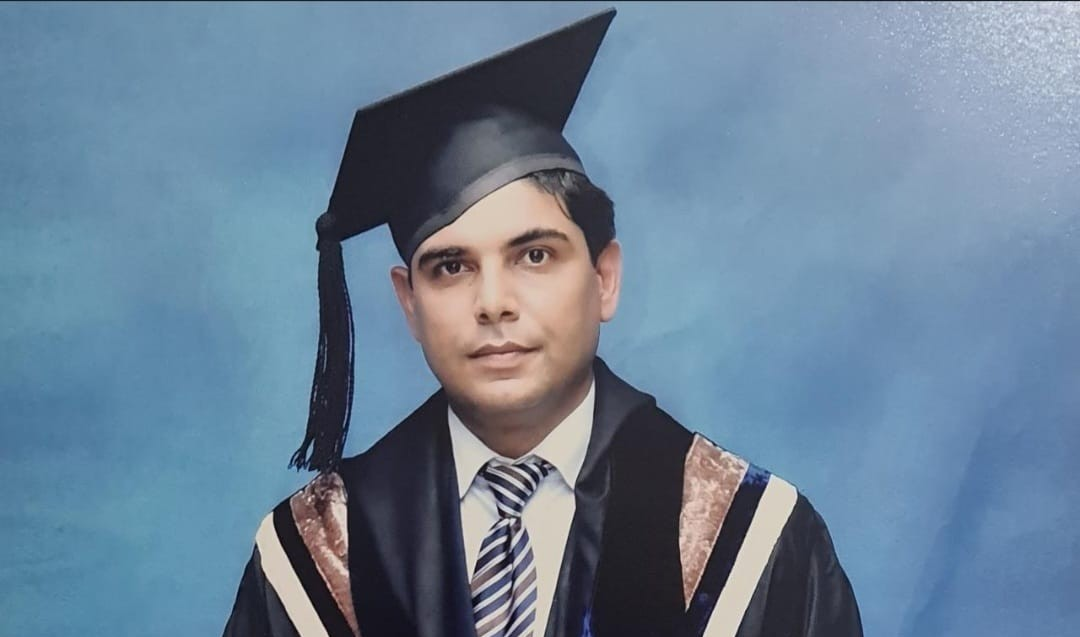
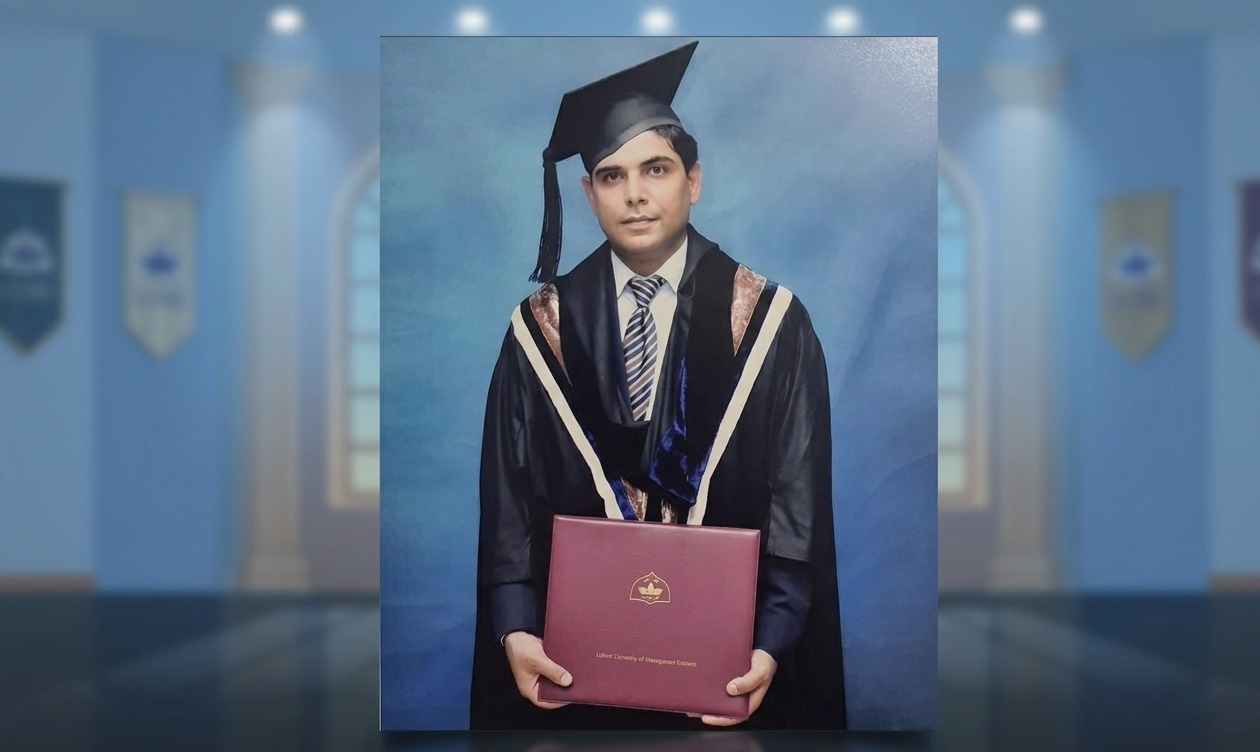
EDUCATION ADDED

diff --git a/index.html b/index.html
@@ -732,6 +732,14 @@
             box-shadow: 0 12px 28px rgba(15, 23, 42, 0.04);
         }
 
+        .education-top {
+            display: flex;
+            justify-content: space-between;
+            gap: 20px;
+            align-items: flex-start;
+            margin-bottom: 14px;
+        }
+
         .education-card h4 {
             margin-bottom: 12px;
             color: var(--indigo);
@@ -757,13 +765,19 @@
         }
 
         .edu-caption {
-            font-size: 0.9rem;
-            color: var(--text-muted);
+            font-size: 0.96rem;
+            color: #d97706;
+            font-weight: 700;
+            letter-spacing: 0.3px;
+            margin-bottom: 6px;
         }
 
         .edu-year {
-            font-weight: 700;
+            font-family: Inter, sans-serif;
             color: var(--indigo);
+            font-size: 0.95rem;
+            font-weight: 700;
+            white-space: nowrap;
             margin-bottom: 8px;
         }
 
@@ -972,7 +986,7 @@
                         <p class="lead">Committed to advancing Airport Operations through innovation, efficiency, and continuous improvement, while fostering a culture of safety, service excellence, and sustainable growth.</p>
                     </div>
                     <div class="intro-actions">
-                        <button id="showMoreBtn" class="btn btn-primary">Detail Profile</button>
+                        <button id="showMoreBtn" class="btn btn-primary">Click to view Detailed Profile</button>
                         <div class="quote-box">
                             <p>What you leave behind is not what is engraved in stone monuments, but what is woven into the lives of others.</p>
                         </div>
@@ -983,31 +997,56 @@
                         </div>
                         <div class="education-list">
                             <div class="education-card">
-                                <h4>1. Lahore University of Management Sciences</h4>
-                                <div class="edu-detail edu-caption">Master of Business Administration (MBA), Operations management</div>
-                                <div class="edu-year">2010 - 2012</div>
+                            <div class="education-top">
+                                <div>
+                                    <h4>1. Master of Business Administration (MBA)</h4>
+                                    <div class="edu-detail edu-caption"> Lahore University of Management Sciences (LUMS)</div>
+                                </div>
+                                <div class="training-date edu-year">2010 - 2012</div>
+                            </div>
+                            <div class="edu-images">
+                                <div class="gallery-card"><img src="lumsconvo1.jpg?v=20260613" alt="LUMS 1" loading="lazy" decoding="async"></div>
+                                <div class="gallery-card"><img src="lumsconvo2.jpg" alt="LUMS 2" loading="lazy" decoding="async"></div>
+                               
+                            </div>
+                        </div>
+
+                            <div class="education-card">
+                                <div class="education-top">
+                                    <div>
+                                        <h4>2. Master of Science (M.Sc.), Physics</h4>
+                                        <div class="edu-detail edu-caption">Govt College (GC), University Lahore</div>
+                                    </div>
+                                    <div class="training-date edu-year">1992 - 1994</div>
+                                </div>
                                 <div class="edu-images">
-                                    <div class="gallery-card"><img src="lumsconvo1.jpg" alt="LUMS 1" loading="lazy" decoding="async"></div>
-                                    <div class="gallery-card"><img src="lumsconvo2.jpg" alt="LUMS 2" loading="lazy" decoding="async"></div>
+                                    <div class="gallery-card"><img src="gcconvo1.jpg" alt="GC 1" loading="lazy" decoding="async"></div>
                                    
                                 </div>
                             </div>
-
+                            
                             <div class="education-card">
-                                <h4>2. Lee Kuan Yew School of Public Policy</h4>
-                                <div class="edu-detail edu-caption">Public Policy program - Public Policy</div>
-                                <div class="edu-year">2017 - 2018</div>
+                                <div class="education-top">
+                                    <div>
+                                        <h4>3. Aviation Policy</h4>
+                                        <div class="edu-detail edu-caption">South Korea</div>
+                                    </div>
+                                    <div class="training-date edu-year">2014</div>
+                                </div>
                                 <div class="edu-images">
-                                    <div class="gallery-card"><img src="(LKYSPP).png" alt="LKYSPP 1" loading="lazy" decoding="async"></div>
-                                    <div class="gallery-card"><img src="(LKYSPP)1.jpg" alt="LKYSPP 2" loading="lazy" decoding="async"></div>
+                                    <div class="gallery-card"><img src="AviationPolicySouthKorea.jpg" alt="South Korea 1" loading="lazy" decoding="async"></div>
                                     
                                 </div>
                             </div>
-
+                            
                             <div class="education-card">
-                                <h4>3. Singapore</h4>
-                                <div class="edu-detail edu-caption">Civil Aviation Management, Airports and Airlines management</div>
-                                <div class="edu-year">2015</div>
+                                <div class="education-top">
+                                    <div>
+                                        <h4>4.Civil Aviation Management Program</h4>
+                                        <div class="edu-detail edu-caption">Singapore</div>
+                                    </div>
+                                    <div class="training-date edu-year">2015</div>
+                                </div>
                                 <div class="edu-images">
                                     <div class="gallery-card"><img src="CivilAviationManagementProgramSingapore.jpg" alt="Singapore 1" loading="lazy" decoding="async"></div>
                                     <div class="gallery-card"><img src="SingaporeCivilAviationManagement.jpg" alt="Singapore 2" loading="lazy" decoding="async"></div>
@@ -1015,26 +1054,20 @@
                             </div>
 
                             <div class="education-card">
-                                <h4>4. South Korea</h4>
-                                <div class="edu-detail edu-caption">Aviation Policy for Executives</div>
-                                <div class="edu-year">2014</div>
+                                <div class="education-top">
+                                    <div>
+                                        <h4>4. Public Policy Program</h4>
+                                        <div class="edu-detail edu-caption">Lee Kuan Yew School of Public Policy (LKYSPP), National University of Singapore</div>
+                                    </div>
+                                    <div class="training-date edu-year">2017 - 2018</div>
+                                </div>
                                 <div class="edu-images">
-                                    <div class="gallery-card"><img src="AviationPolicySouthKorea.jpg" alt="South Korea 1" loading="lazy" decoding="async"></div>
+                                    <div class="gallery-card"><img src="(LKYSPP).png" alt="LKYSPP 1" loading="lazy" decoding="async"></div>
+                                    <div class="gallery-card"><img src="(LKYSPP)1.jpg" alt="LKYSPP 2" loading="lazy" decoding="async"></div>
                                     
                                 </div>
                             </div>
 
-                         
-
-                            <div class="education-card">
-                                <h4>5. GC University Lahore</h4>
-                                <div class="edu-detail edu-caption">Master of Science (M.Sc.), Physics</div>
-                                <div class="edu-year">1992 - 1994</div>
-                                <div class="edu-images">
-                                    <div class="gallery-card"><img src="gcconvo1.jpg" alt="GC 1" loading="lazy" decoding="async"></div>
-                                   
-                                </div>
-                            </div>
                         </div>
                         <div class="education-return">
                             <button id="hideProfileBtn" class="profile-collapse-btn" type="button" title="Return to profile" aria-label="Return to profile">